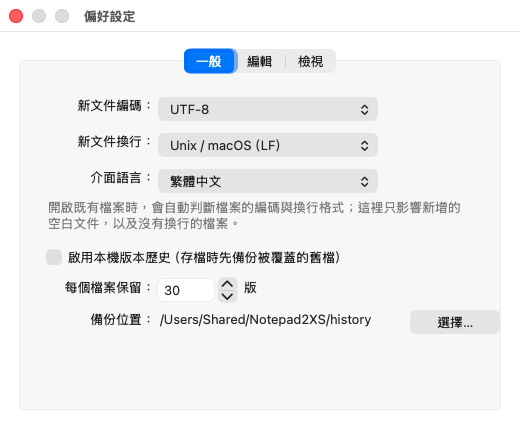
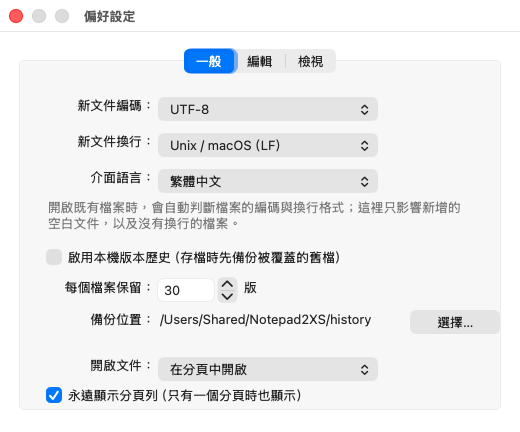
多分頁功能（v1.1.0）
- 使用 macOS 內建視窗分頁；設定可選「在分頁中開啟／在新視窗中開啟」
- 永遠顯示分頁列（只有一個分頁時也顯示「＋」），可在設定關閉
- ⌘T 新增分頁、⌘W 關閉、⌘⇧]／⌘⇧[、⌃Tab／⌃⇧Tab、⌘1～⌘9 切換、⌘⇧\ 顯示所有分頁
- 滑鼠中鍵點分頁關閉；移至新視窗、合併所有視窗
- 開檔時關閉啟動時未修改的空白文件
- CSV 表格模式視窗不超過文件視窗
- 重新截圖（含分頁列）

diff --git a/src/EditorTabs.mm b/src/EditorTabs.mm
@@ -1,0 +1,97 @@
+// 多分頁：使用 macOS 內建的視窗分頁（與 TextEdit／Finder 相同的分頁列）
+// - 設定「開啟文件：在分頁中／在新視窗中」決定新文件的開啟方式
+// - ⌘T 新增分頁、⌘W 關閉分頁、⌘⇧] ／⌘⇧[ 下一個／上一個分頁（⌃Tab／⌃⇧Tab 也可以）、⌘1～⌘8 切換、⌘9 最後一個分頁
+// - 分頁列右側「＋」新增分頁；滑鼠中鍵點分頁可關閉
+// - 「顯示／隱藏標籤頁列」由系統自動加在「視窗」選單（依 App 的介面語言顯示）
+#import "EditorWindowController.h"
+#import "Document.h"
+#import "Settings.h"
+
+static NSString *const kTabbingIdentifier = @"Notepad2XSDocument";
+
+@implementation EditorWindowController (Tabs)
+
+// 建立視窗時呼叫：依設定決定這個新視窗要加入既有視窗的分頁（Preferred），還是獨立開啟（Disallowed）
+- (void)setupTabbing {
+    self.window.tabbingIdentifier = kTabbingIdentifier;
+    self.window.tabbingMode = N2Settings.openInTabs ? NSWindowTabbingModePreferred : NSWindowTabbingModeDisallowed;
+}
+
+// 視窗顯示後改回 Automatic：開啟方式已經決定，之後仍可手動拖曳分頁、合併所有視窗
+- (void)showWindow:(id)sender {
+    [super showWindow:sender];
+    self.window.tabbingMode = NSWindowTabbingModeAutomatic;
+    [self ensureTabBarShown];
+}
+
+// 「永遠顯示分頁列」：只有一個分頁時系統預設會隱藏分頁列，這裡把它打開（含右側「＋」）。
+// 視窗顯示、成為作用中視窗（例如分頁被拖出成新視窗）時檢查
+- (void)ensureTabBarShown {
+    if (!N2Settings.alwaysShowTabBar) return;
+    dispatch_async(dispatch_get_main_queue(), ^{
+        NSWindow *w = self.window;
+        if (w.isVisible && w.tabGroup && !w.tabGroup.isTabBarVisible) [w toggleTabBar:nil];
+    });
+}
+
+// 分頁列的「＋」與 ⌘T：在目前視窗新增一個空白文件分頁（不受「新視窗」設定影響）
+- (IBAction)newWindowForTab:(id)sender {
+    NSError *err = nil;
+    NSDocument *doc = [NSDocumentController.sharedDocumentController openUntitledDocumentAndDisplay:NO error:&err];
+    if (!doc) { if (err) [self.window presentError:err]; return; }
+    [doc makeWindowControllers];
+    NSWindow *w = doc.windowControllers.firstObject.window;
+    if (!w) return;
+    w.tabbingMode = NSWindowTabbingModeAutomatic;
+    [self.window addTabbedWindow:w ordered:NSWindowAbove];
+    [doc showWindows];
+    [w makeKeyAndOrderFront:nil];
+}
+
+// ⌘1～⌘8 切到第 N 個分頁，⌘9 切到最後一個（與瀏覽器相同）
+- (IBAction)selectTabByNumber:(NSMenuItem *)sender {
+    NSArray<NSWindow *> *tabs = self.window.tabbedWindows ?: @[self.window];
+    NSInteger n = sender.tag;
+    NSInteger idx = n >= 9 ? (NSInteger)tabs.count - 1 : n - 1;
+    if (idx < 0 || idx >= (NSInteger)tabs.count) { NSBeep(); return; }
+    [tabs[(NSUInteger)idx] makeKeyAndOrderFront:nil];
+}
+
+@end
+
+#pragma mark - 滑鼠中鍵關閉分頁
+
+// 分頁列是系統的私有視圖：從點到的視圖往上找名稱含 "TabButton" 的視圖，
+// 再依同一層分頁按鈕的水平位置換算成第幾個分頁（順序與 tabbedWindows 相同）
+static NSWindow *TabWindowAtEvent(NSEvent *e) {
+    NSWindow *w = e.window;
+    NSArray<NSWindow *> *tabs = w.tabbedWindows;
+    if (tabs.count < 2) return nil;
+    NSView *frameView = w.contentView.superview;
+    NSView *hit = [frameView hitTest:[frameView convertPoint:e.locationInWindow fromView:nil]];
+    NSView *button = nil;
+    for (NSView *v = hit; v; v = v.superview) {
+        if ([NSStringFromClass(v.class) containsString:@"TabButton"]) { button = v; break; }
+    }
+    if (!button) return nil;
+    NSMutableArray<NSView *> *buttons = [NSMutableArray array];
+    for (NSView *s in button.superview.subviews)
+        if ([s isKindOfClass:button.class] && !s.hidden) [buttons addObject:s];
+    if (buttons.count != tabs.count) return nil;   // 結構不如預期時不動作，避免關錯分頁
+    [buttons sortUsingComparator:^NSComparisonResult(NSView *a, NSView *b) {
+        return [@(NSMinX(a.frame)) compare:@(NSMinX(b.frame))];
+    }];
+    NSUInteger i = [buttons indexOfObjectIdenticalTo:button];
+    if (w.windowTitlebarLayoutDirection == NSUserInterfaceLayoutDirectionRightToLeft) i = tabs.count - 1 - i;
+    return i < tabs.count ? tabs[i] : nil;
+}
+
+void N2InstallTabMiddleClick(void) {
+    [NSEvent addLocalMonitorForEventsMatchingMask:NSEventMaskOtherMouseUp handler:^NSEvent *(NSEvent *e) {
+        if (e.buttonNumber != 2) return e;
+        NSWindow *target = TabWindowAtEvent(e);
+        if (!target) return e;
+        [target performClose:nil];   // 有未儲存的修改時照常詢問
+        return nil;
+    }];
+}

diff --git a/src/AppDelegate.mm b/src/AppDelegate.mm
@@ -1,4 +1,5 @@
 #import "AppDelegate.h"
+#import "EditorWindowController.h"
 #import "Settings.h"
 #import "SyntaxStyles.h"
 #import "TextEncoding.h"
@@ -38,8 +39,22 @@ void N2ShowFileSearch(void);
 @end
 
 @implementation N2DocumentController
+// 啟動時自動建立、還沒動過的空白文件：開啟檔案後關掉它（與 TextEdit 相同），不會留下多餘的「未命名」分頁
+- (Document *)transientDocument {
+    NSArray *docs = self.documents;
+    if (docs.count != 1 || ![docs[0] isKindOfClass:Document.class]) return nil;
+    Document *d = docs[0];
+    if (d.fileURL || d.isDocumentEdited || d.editor.textAsUTF8.length) return nil;
+    return d;
+}
+
 - (void)openDocumentWithContentsOfURL:(NSURL *)url display:(BOOL)display
-                    completionHandler:(void (^)(NSDocument *, BOOL, NSError *))handler {
+                    completionHandler:(void (^)(NSDocument *, BOOL, NSError *))original {
+    Document *transient = [self transientDocument];
+    void (^handler)(NSDocument *, BOOL, NSError *) = ^(NSDocument *doc, BOOL already, NSError *e) {
+        if (doc && !already && transient && doc != transient && !transient.isDocumentEdited) [transient close];
+        original(doc, already, e);
+    };
     if (N2ArchiveKindForURL(url) == N2ArchiveNone) {
         [super openDocumentWithContentsOfURL:url display:display completionHandler:handler];
         return;
@@ -77,7 +92,11 @@ void N2ShowFileSearch(void);
     [N2Settings registerDefaults];
     N2ApplyLanguagePreference();   // 系統的開啟／儲存視窗使用相同語言（下次啟動生效）
     [self buildMainMenu];
+    N2InstallTabMiddleClick();
 }
+
+// 沒有任何文件視窗時按 ⌘T：開一份新文件
+- (IBAction)newWindowForTab:(id)sender { [NSDocumentController.sharedDocumentController newDocument:sender]; }
 
 - (BOOL)applicationShouldOpenUntitledFile:(NSApplication *)sender { return YES; }
 - (BOOL)applicationSupportsSecureRestorableState:(NSApplication *)app { return YES; }
@@ -128,6 +147,7 @@ void N2ShowFileSearch(void);
     // 檔案
     NSMenu *file = Submenu(main, @"檔案");
     Item(file, @"新增", @selector(newDocument:), @"n");
+    Item(file, @"新增分頁", @selector(newWindowForTab:), @"t");
     Item(file, @"開啟…", @selector(openDocument:), @"o");
     NSMenu *recent = Submenu(file, @"打開最近使用的檔案");
     Item(recent, @"清除選單", @selector(clearRecentDocuments:), nil);   // 系統會自動填入最近檔案
@@ -236,7 +256,7 @@ void N2ShowFileSearch(void);
 
     // 格式
     NSMenu *format = Submenu(main, @"格式");
-    Item(format, @"字型…", @selector(showEditorFont:), @"t");
+    Item(format, @"字型…", @selector(showEditorFont:), @"t", C | K);   // ⌘T 讓給「新增分頁」
     NSMenu *lang = Submenu(format, @"語法上色");
     Item(lang, @"自動（依副檔名）", @selector(selectLanguage:), nil, 0, -1);
     Sep(lang);
@@ -332,6 +352,22 @@ void N2ShowFileSearch(void);
     NSMenu *window = Submenu(main, @"視窗");
     Item(window, @"最小化", @selector(performMiniaturize:), @"m");
     Item(window, @"縮放", @selector(performZoom:), nil);
+    Sep(window);
+    // 分頁（動作由 NSWindow 處理；⌃Tab／⌃⇧Tab 系統內建也可以切換）
+    Item(window, @"上一個分頁", @selector(selectPreviousTab:), @"{");
+    Item(window, @"下一個分頁", @selector(selectNextTab:), @"}");
+    // ⌃Tab／⌃⇧Tab：系統慣用的分頁切換鍵，以隱藏項目提供（選單只顯示上面兩項）
+    unichar tabKey = NSTabCharacter, backTab = NSBackTabCharacter;
+    NSMenuItem *ctrlTab = Item(window, @"下一個分頁", @selector(selectNextTab:), [NSString stringWithCharacters:&tabKey length:1], K);
+    NSMenuItem *ctrlShiftTab = Item(window, @"上一個分頁", @selector(selectPreviousTab:), [NSString stringWithCharacters:&backTab length:1], K | S);
+    for (NSMenuItem *it in @[ctrlTab, ctrlShiftTab]) { it.hidden = YES; it.allowsKeyEquivalentWhenHidden = YES; }
+    NSMenu *tabNumbers = Submenu(window, @"切換到分頁");
+    for (int i = 1; i <= 9; i++)
+        Item(tabNumbers, i == 9 ? N2L(@"最後一個分頁") : [NSString stringWithFormat:N2L(@"第 %d 個分頁"), i],
+             @selector(selectTabByNumber:), [NSString stringWithFormat:@"%d", i], C, i);
+    Item(window, @"顯示所有分頁", @selector(toggleTabOverview:), @"\\", C | S);
+    Item(window, @"將分頁移至新視窗", @selector(moveTabToNewWindow:), nil);
+    Item(window, @"合併所有視窗", @selector(mergeAllWindows:), nil);
     Sep(window);
     Item(window, @"將此程式所有視窗移至最前", @selector(arrangeInFront:), nil);
     NSApp.windowsMenu = window;

diff --git a/src/Localization.mm b/src/Localization.mm
@@ -72,6 +72,18 @@ static NSDictionary<NSString *, NSArray<NSString *> *> *Table(void) {
         // 檢視
         @"檢視": @[@"View", @"表示", @"显示", @"보기", @"Présentation", @"Darstellung", @"Вид"],
         @"進入全螢幕": @[@"Enter Full Screen", @"フルスクリーンにする", @"进入全屏幕", @"전체 화면 시작", @"Passer en plein écran", @"Vollbildmodus", @"Войти в полноэкранный режим"],
+        @"新增分頁": @[@"New Tab", @"新規タブ", @"新建标签页", @"새로운 탭", @"Nouvel onglet", @"Neuer Tab", @"Новая вкладка"],
+        @"上一個分頁": @[@"Previous Tab", @"前のタブ", @"上一个标签页", @"이전 탭", @"Onglet précédent", @"Vorheriger Tab", @"Предыдущая вкладка"],
+        @"下一個分頁": @[@"Next Tab", @"次のタブ", @"下一个标签页", @"다음 탭", @"Onglet suivant", @"Nächster Tab", @"Следующая вкладка"],
+        @"切換到分頁": @[@"Go to Tab", @"タブに移動", @"切换到标签页", @"탭으로 이동", @"Aller à l’onglet", @"Gehe zu Tab", @"Перейти к вкладке"],
+        @"第 %d 個分頁": @[@"Tab %d", @"タブ %d", @"第 %d 个标签页", @"탭 %d", @"Onglet %d", @"Tab %d", @"Вкладка %d"],
+        @"最後一個分頁": @[@"Last Tab", @"最後のタブ", @"最后一个标签页", @"마지막 탭", @"Dernier onglet", @"Letzter Tab", @"Последняя вкладка"],
+        @"顯示所有分頁": @[@"Show All Tabs", @"すべてのタブを表示", @"显示所有标签页", @"모든 탭 보기", @"Afficher tous les onglets", @"Alle Tabs anzeigen", @"Показать все вкладки"],
+        @"將分頁移至新視窗": @[@"Move Tab to New Window", @"タブを新規ウインドウに移動", @"将标签页移到新窗口", @"탭을 새로운 윈도우로 이동", @"Placer l’onglet dans une nouvelle fenêtre", @"Tab in neues Fenster bewegen", @"Переместить вкладку в новое окно"],
+        @"合併所有視窗": @[@"Merge All Windows", @"すべてのウインドウを結合", @"合并所有窗口", @"모든 윈도우 병합", @"Fusionner toutes les fenêtres", @"Alle Fenster zusammenführen", @"Объединить все окна"],
+        @"永遠顯示分頁列（只有一個分頁時也顯示）": @[@"Always show tab bar (even with one tab)", @"常にタブバーを表示（タブが1つでも表示）", @"始终显示标签页栏（只有一个标签页时也显示）", @"항상 탭 막대 보기(탭이 하나여도 표시)", @"Toujours afficher la barre d’onglets (même avec un seul onglet)", @"Tableiste immer anzeigen (auch bei einem Tab)", @"Всегда показывать панель вкладок (даже с одной вкладкой)"],
+        @"在分頁中開啟": @[@"Open in Tabs", @"タブで開く", @"在标签页中打开", @"탭에서 열기", @"Ouvrir dans des onglets", @"In Tabs öffnen", @"Открывать во вкладках"],
+        @"在新視窗中開啟": @[@"Open in New Windows", @"新規ウインドウで開く", @"在新窗口中打开", @"새로운 윈도우에서 열기", @"Ouvrir dans de nouvelles fenêtres", @"In neuen Fenstern öffnen", @"Открывать в новых окнах"],
         @"分隔線": @[@"Separator", @"区切り線", @"分隔线", @"구분선", @"Séparateur", @"Trennlinie", @"Разделитель"],
         @"工具列": @[@"Toolbar", @"ツールバー", @"工具栏", @"도구 막대", @"Barre d’outils", @"Symbolleiste", @"Панель инструментов"],
         @"自訂工具列…": @[@"Customize Toolbar…", @"ツールバーをカスタマイズ…", @"自定工具栏…", @"도구 막대 사용자화…", @"Personnaliser la barre d’outils…", @"Symbolleiste anpassen …", @"Настроить панель инструментов…"],

diff --git a/src/Settings.h b/src/Settings.h
@@ -13,7 +13,8 @@ extern NSString *const N2KeyFontName, *const N2KeyFontSize, *const N2KeyWordWrap
     *const N2KeyShowWhitespace, *const N2KeyShowEOL, *const N2KeyWrapSymbols, *const N2KeyIndentGuides,
     *const N2KeyLongLineMarker, *const N2KeyLongLineColumn, *const N2KeyMatchBraces, *const N2KeyHighlightLine,
     *const N2KeyHighlightSelection, *const N2KeyInvertColors, *const N2KeyNewEncoding, *const N2KeyNewEOL,
-    *const N2KeyHistoryEnabled, *const N2KeyHistoryKeep, *const N2KeyHistoryFolder, *const N2KeyUILanguage;
+    *const N2KeyHistoryEnabled, *const N2KeyHistoryKeep, *const N2KeyHistoryFolder, *const N2KeyUILanguage,
+    *const N2KeyOpenInTabs, *const N2KeyAlwaysShowTabBar;
 
 @interface N2Settings : NSObject
 + (void)registerDefaults;
@@ -38,6 +39,8 @@ extern NSString *const N2KeyFontName, *const N2KeyFontSize, *const N2KeyWordWrap
 @property (class, nonatomic) BOOL invertColors;
 @property (class, nonatomic) N2Encoding newDocumentEncoding;
 @property (class, nonatomic) int newDocumentEOL;   // SC_EOL_*
+@property (class, nonatomic, readonly) BOOL alwaysShowTabBar;   // 只有一個分頁時也顯示分頁列
+@property (class, nonatomic, readonly) BOOL openInTabs;         // 開啟／新增文件時加入目前視窗的分頁（預設），否則開新視窗
 @property (class, nonatomic, readonly) BOOL historyEnabled;     // 本機版本歷史（預設關閉）
 @property (class, nonatomic, readonly) NSInteger historyKeep;   // 每個檔案保留版本數（1～1000，預設 30）
 @property (class, nonatomic, readonly) NSString *historyFolder;

diff --git a/src/EditorWindowController.mm b/src/EditorWindowController.mm
@@ -78,12 +78,12 @@ static const CGFloat kStatusBarHeight = 22;
         backing:NSBackingStoreBuffered defer:YES];
     win.minSize = NSMakeSize(320, 200);
     win.collectionBehavior = NSWindowCollectionBehaviorFullScreenPrimary;
-    win.tabbingMode = NSWindowTabbingModeDisallowed;
     if ((self = [super initWithWindow:win])) {
         win.delegate = self;
         self.shouldCascadeWindows = YES;
         [self buildViews];
         [self setupToolbar];
+        [self setupTabbing];
         [self applySettings];
         [NSNotificationCenter.defaultCenter addObserver:self selector:@selector(settingsChanged:)
                                                    name:N2SettingsChangedNotification object:nil];
@@ -274,6 +274,7 @@ static sptr_t S(ScintillaView *v, unsigned int msg, uptr_t w = 0, sptr_t l = 0) 
     NSSet *keys = n.userInfo[N2SettingsChangedKeys];
     BOOL styles = !keys || [keys intersectsSet:[NSSet setWithObjects:N2KeyFontName, N2KeyFontSize, N2KeyInvertColors, nil]];
     [self applySettingsRestyle:styles];
+    if ([keys containsObject:N2KeyAlwaysShowTabBar]) [self ensureTabBarShown];
 }
 
 - (void)applySettings { [self applySettingsRestyle:YES]; }
@@ -883,6 +884,7 @@ static int SciFlags(N2FindOptions o) {
 #pragma mark - 視窗
 
 - (void)windowDidBecomeKey:(NSNotification *)n {
+    [self ensureTabBarShown];
     NSResponder *fr = self.window.firstResponder;
     BOOL inEditor = [fr isKindOfClass:NSView.class] &&
                     ([(NSView *)fr isDescendantOf:_primary] || (_secondary && [(NSView *)fr isDescendantOf:_secondary]));

diff --git a/src/Settings.mm b/src/Settings.mm
@@ -28,6 +28,8 @@ NSString *const N2KeyHistoryEnabled = @"HistoryEnabled";
 NSString *const N2KeyHistoryKeep = @"HistoryKeep";
 NSString *const N2KeyHistoryFolder = @"HistoryFolder";
 NSString *const N2KeyUILanguage = @"UILanguage";
+NSString *const N2KeyOpenInTabs = @"OpenInTabs";
+NSString *const N2KeyAlwaysShowTabBar = @"AlwaysShowTabBar";
 
 static NSUserDefaults *UD(void) { return NSUserDefaults.standardUserDefaults; }
 
@@ -82,6 +84,8 @@ static void SetB(NSString *k, BOOL v) { [UD() setBool:v forKey:k]; }
         N2KeyHistoryEnabled: @NO,
         N2KeyHistoryKeep: @30,
         N2KeyHistoryFolder: @"",
+        N2KeyOpenInTabs: @YES,
+        N2KeyAlwaysShowTabBar: @YES,   // 只有一個分頁時也顯示分頁列（含「＋」）   // 開啟文件：YES＝分頁、NO＝新視窗
         N2KeyUILanguage: @"zh-Hant",   // 與 Windows 版相同，預設繁體中文；空字串＝跟隨系統
     };
     [UD() registerDefaults:defaults];
@@ -185,6 +189,8 @@ static CGFloat ClampFontSize(CGFloat v) { return MIN(MAX(v, 4.0), 200.0); }
 + (void)setNewDocumentEOL:(int)v { [UD() setInteger:v forKey:N2KeyNewEOL]; }
 
 + (BOOL)historyEnabled { return B(N2KeyHistoryEnabled); }
++ (BOOL)openInTabs { return B(N2KeyOpenInTabs); }
++ (BOOL)alwaysShowTabBar { return B(N2KeyAlwaysShowTabBar); }
 + (NSInteger)historyKeep {
     NSInteger n = [UD() integerForKey:N2KeyHistoryKeep];
     return (n >= 1 && n <= 1000) ? n : 30;

diff --git a/src/PreferencesWindow.mm b/src/PreferencesWindow.mm
@@ -127,6 +127,11 @@ static NSString *KP(NSString *key) { return [@"values." stringByAppendingString:
     NSButton *pick = [NSButton buttonWithTitle:@"選擇…" target:self action:@selector(chooseHistoryFolder:)];
     pick.frame = NSMakeRect(388, 69, 90, 32);
     [g addSubview:pick];
+    // 開啟文件的方式：分頁或新視窗（只影響之後開啟的文件）
+    [self label:@"開啟文件：" at:NSMakeRect(0, 30, 130, 20) in:g];
+    [self popup:@[@[N2L(@"在分頁中開啟"), @1], @[N2L(@"在新視窗中開啟"), @0]] key:N2KeyOpenInTabs
+             at:NSMakeRect(136, 25, 220, 26) in:g];
+    [self check:N2L(@"永遠顯示分頁列（只有一個分頁時也顯示）") key:N2KeyAlwaysShowTabBar at:2 in:g];
 
     // 編輯
     NSView *e = [self tabView:tabs title:@"編輯"];

diff --git a/src/CsvTableWindow.mm b/src/CsvTableWindow.mm
@@ -30,6 +30,11 @@ static NSMutableSet *gCsvWindows;
     if (!w) return;
     if (!gCsvWindows) gCsvWindows = [NSMutableSet set];
     [gCsvWindows addObject:w];
+    // 表格視窗不超過文件視窗的內容區（含分頁列時可用高度較小），避免底部按鈕被裁掉
+    NSSize avail = ed.window.contentLayoutRect.size;
+    NSSize want = w.window.frame.size;
+    [w.window setContentSize:NSMakeSize(MAX(MIN(want.width, avail.width - 20), w.window.minSize.width),
+                                        MAX(MIN(want.height, avail.height - 20), w.window.minSize.height))];
     [ed.window beginSheet:w.window completionHandler:nil];
 }
 

diff --git a/src/EditorWindowController.h b/src/EditorWindowController.h
@@ -69,6 +69,13 @@ static const NSInteger N2ReplaceAllReadOnly = -2;   // replaceAll：文件唯讀
 - (void)runPendingAutoDecrypt;
 @end
 
+// 多分頁（實作在 EditorTabs.mm）
+@interface EditorWindowController (Tabs)
+- (void)setupTabbing;
+- (void)ensureTabBarShown;
+@end
+void N2InstallTabMiddleClick(void);   // 滑鼠中鍵點分頁即關閉
+
 // 工具列（實作在 EditorToolbar.mm）
 @interface EditorWindowController (Toolbar) <NSToolbarDelegate>
 - (void)setupToolbar;

diff --git a/PLAN.md b/PLAN.md
@@ -293,3 +293,14 @@ SecureEraseCore.h（覆寫／同步／回讀驗證／刪除流程）、JpegComme
 新增測試：`tests/test_archive.mm`（中文成員、惡意成員名稱、`-` 開頭名稱、硬連結、7z、tar.gz、加密 ZIP，共 36 項）、`tests/test_strings.mm`（6 項）。
 
 實機驗證：NUL 檔案移除行尾空白、UTF-16 解碼 D800、Big5 URL 解碼、鎖定文件全部取代／改換行、手動加密後回復、手動解密後 ⌘Z、JPEG 重新載入選單停用、空白文件選單停用、App 內 ZIP（中文成員）與 7z 回存、匯出切換格式時副檔名同步。
+
+## 12. 多分頁（2026-11-23，v1.1.0）
+
+- 使用 macOS 內建的視窗分頁（`NSWindow` tabbing，`tabbingIdentifier` 固定），外觀與 TextEdit 相同。實作在 `src/EditorTabs.mm`。
+- 設定 → 一般：「開啟文件：在分頁中開啟（預設）／在新視窗中開啟」。新視窗建立時依設定用 Preferred／Disallowed 決定，顯示後改回 Automatic，仍可手動拖曳、合併。
+- 「永遠顯示分頁列」（預設開）：只有一個分頁時也顯示分頁列與「＋」；視窗顯示、成為作用中視窗、設定改變時檢查。
+- 快捷鍵：⌘T 新增分頁（「字型…」改為 ⌃⌘T）、⌘W 關閉、⌘⇧]／⌘⇧[ 與 ⌃Tab／⌃⇧Tab 切換、⌘1～⌘8 第 N 個、⌘9 最後一個、⌘⇧\ 顯示所有分頁；「將分頁移至新視窗」「合併所有視窗」在「視窗」選單；「顯示／隱藏標籤頁列」由系統自動加入。
+- 滑鼠中鍵點分頁即關閉（有未儲存修改時照常詢問）：以本機事件監聽 `otherMouseUp`，從點到的分頁按鈕位置換算是第幾個分頁；結構不如預期時不動作。
+- 開啟檔案時，啟動時自動建立且未修改的空白「未命名」文件會被關閉（與 TextEdit 相同）。
+- CSV 表格模式的視窗改為不超過文件視窗，避免加了分頁列後底部按鈕被裁掉。
+- 驗證：三個檔案合為三個分頁、⌘1／⌘9／⌘2／⌘⇧]／⌘⇧[／⌃Tab／⌃⇧Tab 切換、中鍵關閉非作用中分頁與有修改的分頁（先詢問儲存）、⌘T 與「＋」新增分頁、改為新視窗模式後開檔為獨立視窗、合併所有視窗、單一分頁時分頁列常駐。

diff --git a/README.md b/README.md
@@ -11,6 +11,12 @@
 
 ## 截圖
 
+### 多分頁
+
+和 TextEdit／Finder 一樣的 macOS 內建分頁。只有一個分頁時也會顯示分頁列與「＋」（可在設定關閉）：
+
+![只有一個分頁](docs/screenshots/single-tab.png)
+
 ### 編輯與尋找
 
 | 尋找與取代（醒目提示相同文字） | F5 執行選取（數學運算） |
@@ -57,7 +63,21 @@
 | F5 執行選取 | 數學運算式、中文金額、SQL（ODBC／iODBC）、HTTP、FTP、SSH、Shell 指令、`[SYSINFO]`（system_profiler） |
 | 人工智慧 | OpenRouter、Google Gemini、NVIDIA、DeepSeek 連線設定與指令範本（API Key 存在鑰匙圈） |
 | 其他工具 | CSV／TSV 表格模式、檔案搜尋、版本歷史、安全刪除、JPEG 內嵌文字（明文／AES／EXES）、EXMD3 雜湊、Base64／URL／QP／Hex 編碼 |
+| 多分頁 | macOS 內建分頁列；設定可選「在分頁中開啟」或「在新視窗中開啟」、永遠顯示分頁列；滑鼠中鍵點分頁關閉；拖曳分頁、移至新視窗、合併所有視窗 |
 | 工具列 | 原版 18 個預設按鈕；右鍵 →「自訂工具列…」可加入其他 25 個按鈕與分隔線；「檢視 → 重設工具列」還原 |
+
+## 分頁快捷鍵
+
+| 動作 | 快捷鍵 |
+|---|---|
+| 新增分頁 | ⌘T（或分頁列右側「＋」） |
+| 關閉分頁 | ⌘W、滑鼠中鍵點分頁 |
+| 下一個／上一個分頁 | ⌘⇧] ／ ⌘⇧[、⌃Tab ／ ⌃⇧Tab |
+| 切換到第 1～8 個分頁 | ⌘1 ～ ⌘8 |
+| 切換到最後一個分頁 | ⌘9 |
+| 顯示所有分頁 | ⌘⇧\ |
+
+「字型…」的快捷鍵改為 ⌃⌘T（⌘T 給新增分頁）。
 
 ## 從原始碼建置
 
